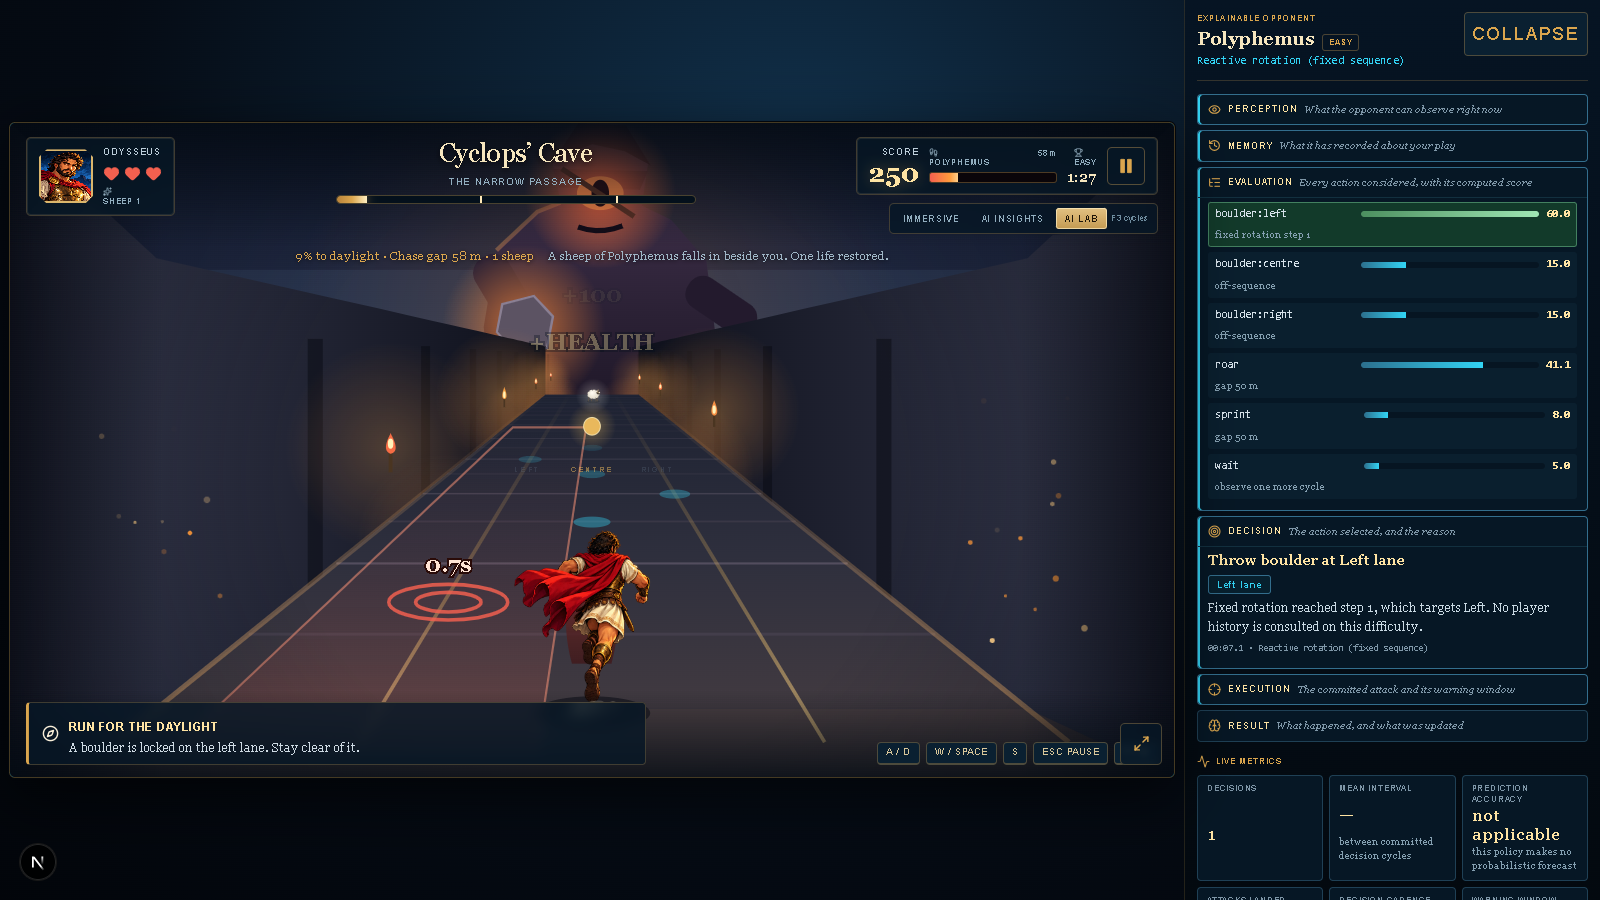
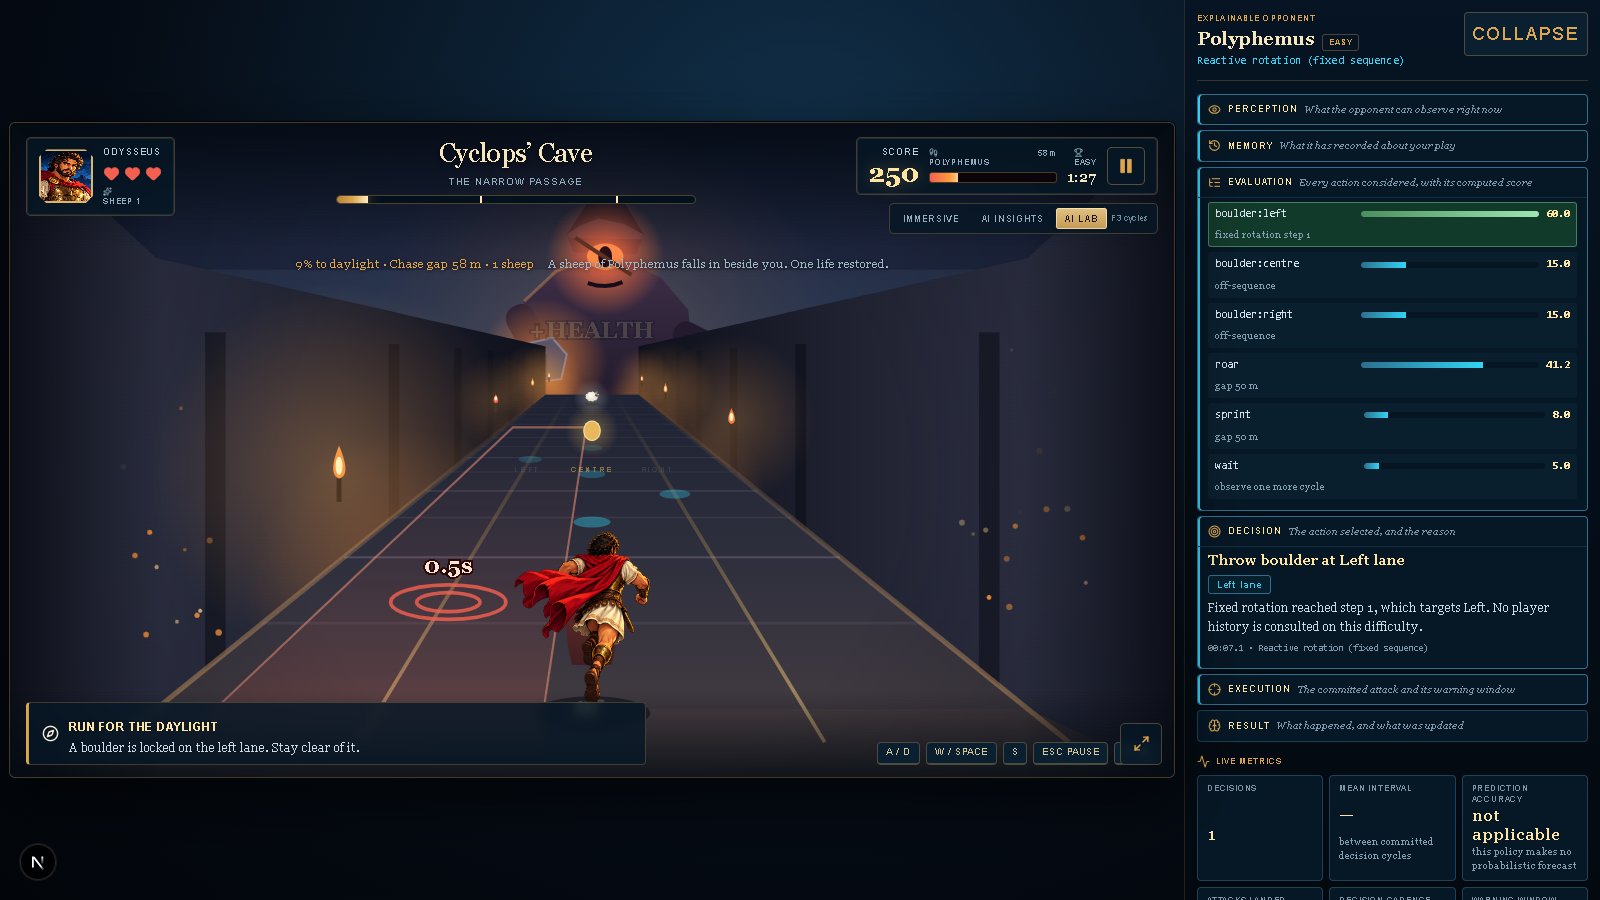
feat: enhance AI decision-making with safety guarantees; update cave scene rendering for improved visuals; adjust reaction timing in cave runner tests

diff --git a/src/lib/render/cave-scene.ts b/src/lib/render/cave-scene.ts
@@ -379,13 +379,17 @@ export class CaveScene {
   private drawPolyphemus(c: CanvasRenderingContext2D, s: CaveState, now: number, options: CaveSceneOptions) {
     const cy = s.cyclops;
     const near = clamp01(1 - (cy.gap - 8) / (START_GAP - 8));
-    const scale = lerp(0.72, 2.1, near * near);
-    const baseY = HORIZON_Y + lerp(26, 330, near);
+    const scale = lerp(0.55, 1.8, near * near);
+    // Anchored by the crown of his head rather than by a notional foot line:
+    // his legs are behind the camera, so only the head position is meaningful,
+    // and this keeps him inside the frame at every size.
+    const CROWN = 518;
+    const headTop = lerp(152, 26, near);
     const stridePhase = (cy.stride / 1000) * Math.PI * 2;
     const sway = options.still ? 0 : Math.sin(stridePhase) * 26 * scale;
     const lurch = options.still ? 0 : Math.abs(Math.sin(stridePhase)) * 20 * scale;
     const x = CENTRE_X + sway;
-    const y = baseY - lurch;
+    const y = headTop + CROWN * scale - lurch;
     const winding = cy.state === "winding";
     const roaring = cy.state === "roaring" || now - cy.roarAt < 620;
     const wind = winding ? easeOut(1 - cy.timer / Math.max(1, cy.windTotal)) : 0;

diff --git a/src/lib/ai/cyclops.ts b/src/lib/ai/cyclops.ts
@@ -420,6 +420,7 @@ export function decideCave(
   if (selected.startsWith("boulder:")) {
     const lane = LANE_NAMES.findIndex(n => n.toLowerCase() === selected.slice(8));
     const clean = cleanEscapeLanes(view, lane, horizonMs, view.speed);
+    const safety = { escapes: escapeLanes(view, lane, horizonMs, view.speed).length, actionFree: clean.length };
     const confidence = policy.predictive ? clamp01(forecast.distribution[lane] ?? 0) : undefined;
     const reason = policy.predictive
       ? `${laneName(lane)} scored highest: the decayed lane history and the observed ${laneName(view.lane)}→? transitions put Odysseus there with probability ${pct(forecast.distribution[lane] ?? 0)} in ${ms(horizonMs)}${weakest === lane ? ", and that lane has the worst escape record" : ""}. ${clean.length} action-free escape lane${clean.length === 1 ? "" : "s"} stay open.`
@@ -438,6 +439,7 @@ export function decideCave(
       ...(confidence === undefined ? {} : { confidence }),
       reason,
       commitMs: policy.telegraphMs,
+      safety,
     });
     ai.committed = decision;
     ai.commitRemaining = policy.telegraphMs;

diff --git a/src/components/ai-inspector.tsx b/src/components/ai-inspector.tsx
@@ -312,7 +312,11 @@ export function AILab({ feed, onCollapse }: { feed: InspectorFeed; onCollapse: (
                           }}
                         />
                       </i>
-                      <small>The target was locked when the warning began and is never re-aimed.</small>
+                      <small>
+                        The target was locked when the warning began and is never re-aimed.
+                        {runtime.committed.safety &&
+                          ` ${runtime.committed.safety.actionFree} lane${runtime.committed.safety.actionFree === 1 ? "" : "s"} were left open where no jump or slide is needed.`}
+                      </small>
                     </div>
                   ) : (
                     <p className="ai-empty">Nothing committed right now.</p>

diff --git a/src/lib/ai/types.ts b/src/lib/ai/types.ts
@@ -69,6 +69,15 @@ export type AIDecision = {
   reason: string;
   /** Telegraph length in ms. The target is locked for this whole window. */
   commitMs?: number;
+  /**
+   * The escape routes this decision left the player, counted at the moment it
+   * was made.
+   *
+   * Recording it on the decision rather than recomputing it later is what lets
+   * the fairness guarantee be checked against the instant it was actually
+   * given, and lets the inspector state the promise the opponent kept.
+   */
+  safety?: { escapes: number; actionFree: number };
   /** Filled in by the learn stage once the action resolves. */
   outcome?: DecisionOutcome;
   outcomeNote?: string;

diff --git a/src/farshore-stage.css b/src/farshore-stage.css
@@ -1235,7 +1235,7 @@ body.fs-stage-open {
 .fs-arena-status {
   position: absolute;
   /* Under the HUD banner, clear of both the runner and the cue strip. */
-  inset: 124px 0 auto 0;
+  inset: 132px 0 auto 0;
   z-index: 3;
   display: flex;
   gap: 14px;
